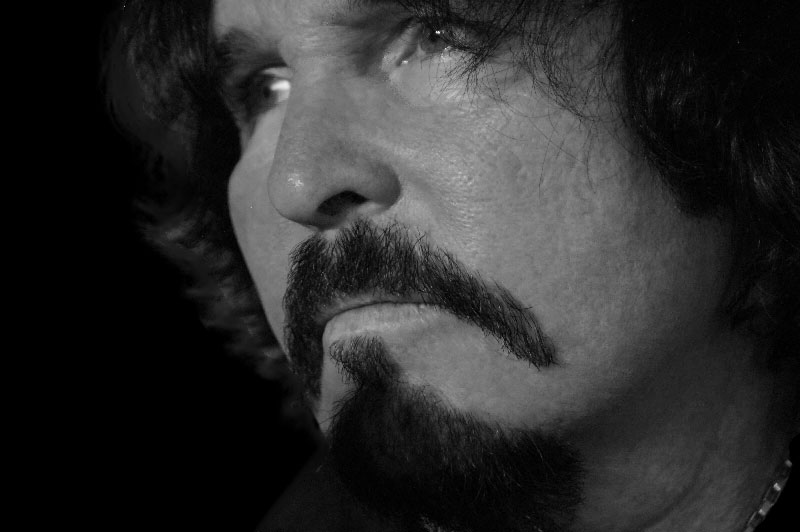
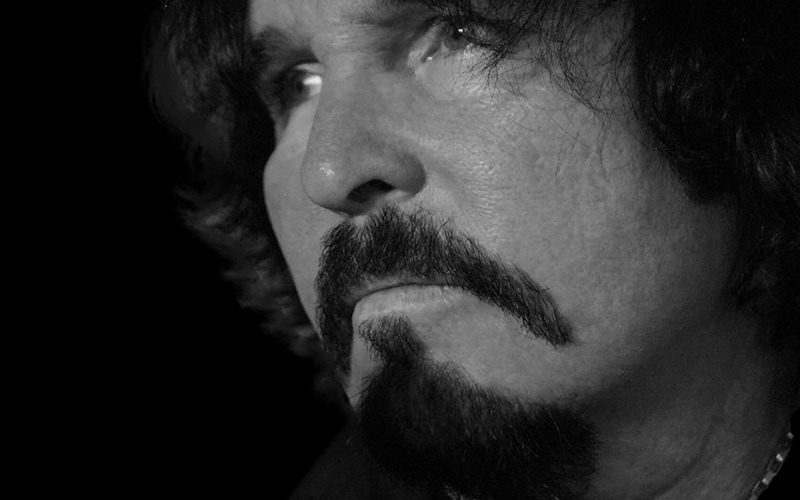
Working on mobile imgs

diff --git a/css/styles.css b/css/styles.css
@@ -1,1 +1,1 @@
-html,body{padding:0;margin:0}body{background:#000;color:#c8c8c8}.wrapper{max-width:1300px;margin:0 auto;padding:0 10px}.disable-scroll{overflow:hidden}nav{font-family:'New Rocker', cursive;padding:5px 0;clear:both;overflow:hidden;position:fixed;top:0;width:100%;z-index:10;background:#000;-webkit-box-shadow:0px 2px 7px 1px rgba(88,88,88,0.5);-moz-box-shadow:0px 2px 7px 1px rgba(88,88,88,0.5);box-shadow:0px 2px 7px 1px rgba(88,88,88,0.5)}nav #brand{float:left}nav #brand h1{margin:0;padding:0;font-size:3em}nav #nav-button{display:none}nav ul.site-nav{list-style-type:none;margin:0;padding:0;float:right}nav ul.site-nav li{display:inline-block}nav ul.site-nav li a{text-decoration:none;color:#c8c8c8;padding:20px;position:relative;top:20px;font-size:1.1em}nav ul.site-nav li a:hover{color:red}@media (max-width: 850px){nav{overflow:visible}nav #brand h1{font-size:2.5em}nav #nav-button{display:block;position:absolute;top:15px;right:15px}nav ul.site-nav{display:none}nav ul.site-nav.open{display:block;position:absolute;text-align:center;top:59px;left:50%;transform:translateX(-50%);width:50%;margin:0 auto;z-index:10;background:#000}nav ul.site-nav.open li{display:block;padding:10px}nav ul.site-nav.open li a{pading:0;top:0}}#home{margin-top:70px;height:532px;background:url("../imgs/headshot.jpg") center center no-repeat}#drums{height:600px;margin:50px auto;background:url("../imgs/drums.jpg") fixed center no-repeat;background-size:cover;position:relative}#drums:before{content:'';display:block;height:50rem;position:absolute;left:0;right:0;top:-25rem;background:url("../imgs/tear.png") center center repeat-x}#album{clear:both;overflow:hidden}#album .artwork{float:left;width:40%}#album .artwork img{width:100%}#album .testimonial{float:right;width:59%}@media (max-width: 850px){#home{margin-top:60px}}
+html,body{padding:0;margin:0}body{background:#000;color:#c8c8c8}.wrapper{max-width:1300px;margin:0 auto;padding:0 10px}.disable-scroll{overflow:hidden}nav{font-family:'New Rocker', cursive;padding:5px 0;clear:both;overflow:hidden;position:fixed;top:0;width:100%;z-index:10;background:#000;-webkit-box-shadow:0px 2px 7px 1px rgba(88,88,88,0.5);-moz-box-shadow:0px 2px 7px 1px rgba(88,88,88,0.5);box-shadow:0px 2px 7px 1px rgba(88,88,88,0.5)}nav #brand{float:left}nav #brand h1{margin:0;padding:0;font-size:3em}nav #nav-button{display:none}nav ul.site-nav{list-style-type:none;margin:0;padding:0;float:right}nav ul.site-nav li{display:inline-block}nav ul.site-nav li a{text-decoration:none;color:#c8c8c8;padding:20px;position:relative;top:20px;font-size:1.1em}nav ul.site-nav li a:hover{color:red}@media (max-width: 850px){nav{overflow:visible}nav #brand h1{font-size:2.5em}nav #nav-button{display:block;position:absolute;top:15px;right:15px}nav ul.site-nav{display:none}nav ul.site-nav.open{display:block;position:absolute;text-align:center;top:59px;left:50%;transform:translateX(-50%);width:50%;margin:0 auto;z-index:10;background:#000}nav ul.site-nav.open li{display:block;padding:10px}nav ul.site-nav.open li a{pading:0;top:0}}#home{margin-top:70px;height:500px;background:url("../imgs/headshot.jpg") center center no-repeat}#drums{height:600px;margin:50px auto;background:url("../imgs/drums.jpg") fixed center no-repeat;background-size:cover;position:relative}#drums:before{content:'';display:block;height:50rem;position:absolute;left:0;right:0;top:-25rem;background:url("../imgs/tear.png") center center repeat-x}#album{clear:both;overflow:hidden}#album .artwork{float:left;width:40%}#album .artwork img{width:100%}#album .testimonial{float:right;width:59%}@media (max-width: 850px){#home{margin-top:60px;height:250px;background:url("../imgs/headshot-small.jpg") center center no-repeat}}

diff --git a/scss/_layout.scss b/scss/_layout.scss
@@ -1,6 +1,6 @@
 #home {
 	margin-top: 70px;
-	height: 532px;
+	height: 500px;
 	background: url('../imgs/headshot.jpg') center center no-repeat;
 }
 
@@ -45,5 +45,7 @@
 @media (max-width: 850px) {
 	#home {
 		margin-top: 60px;
+		height: 250px;
+		background: url('../imgs/headshot-small.jpg') center center no-repeat;
 	}
 }
